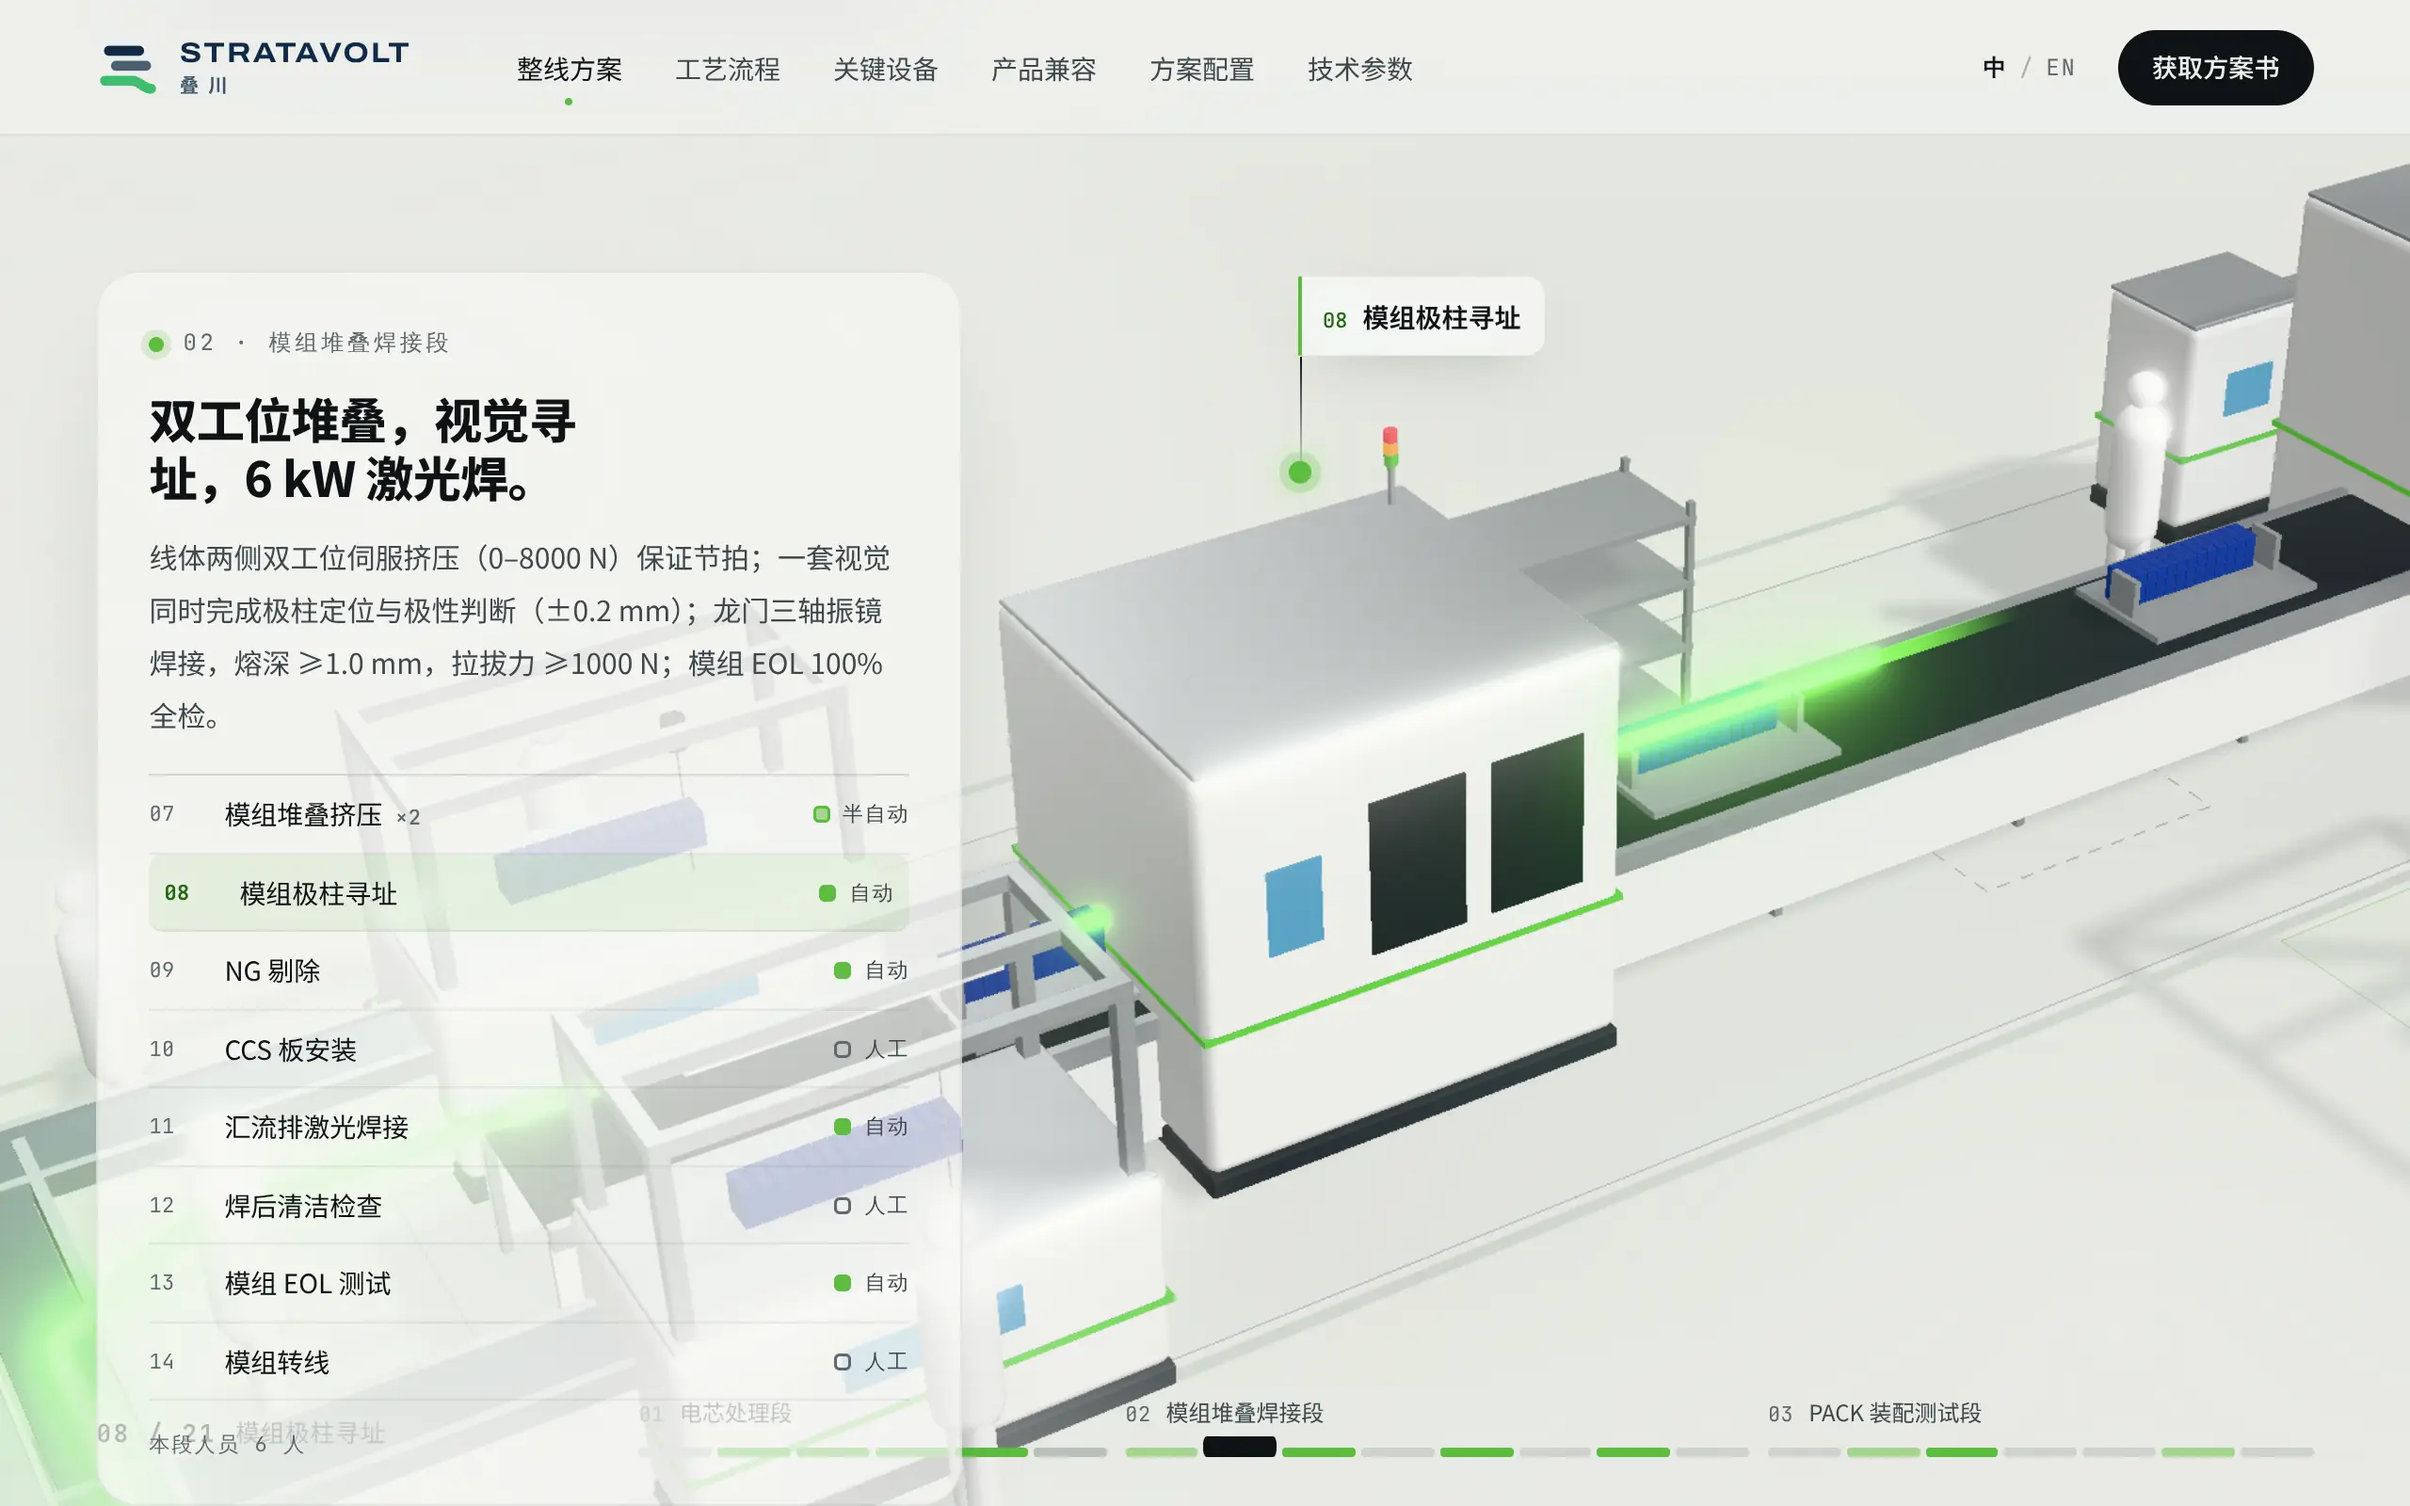
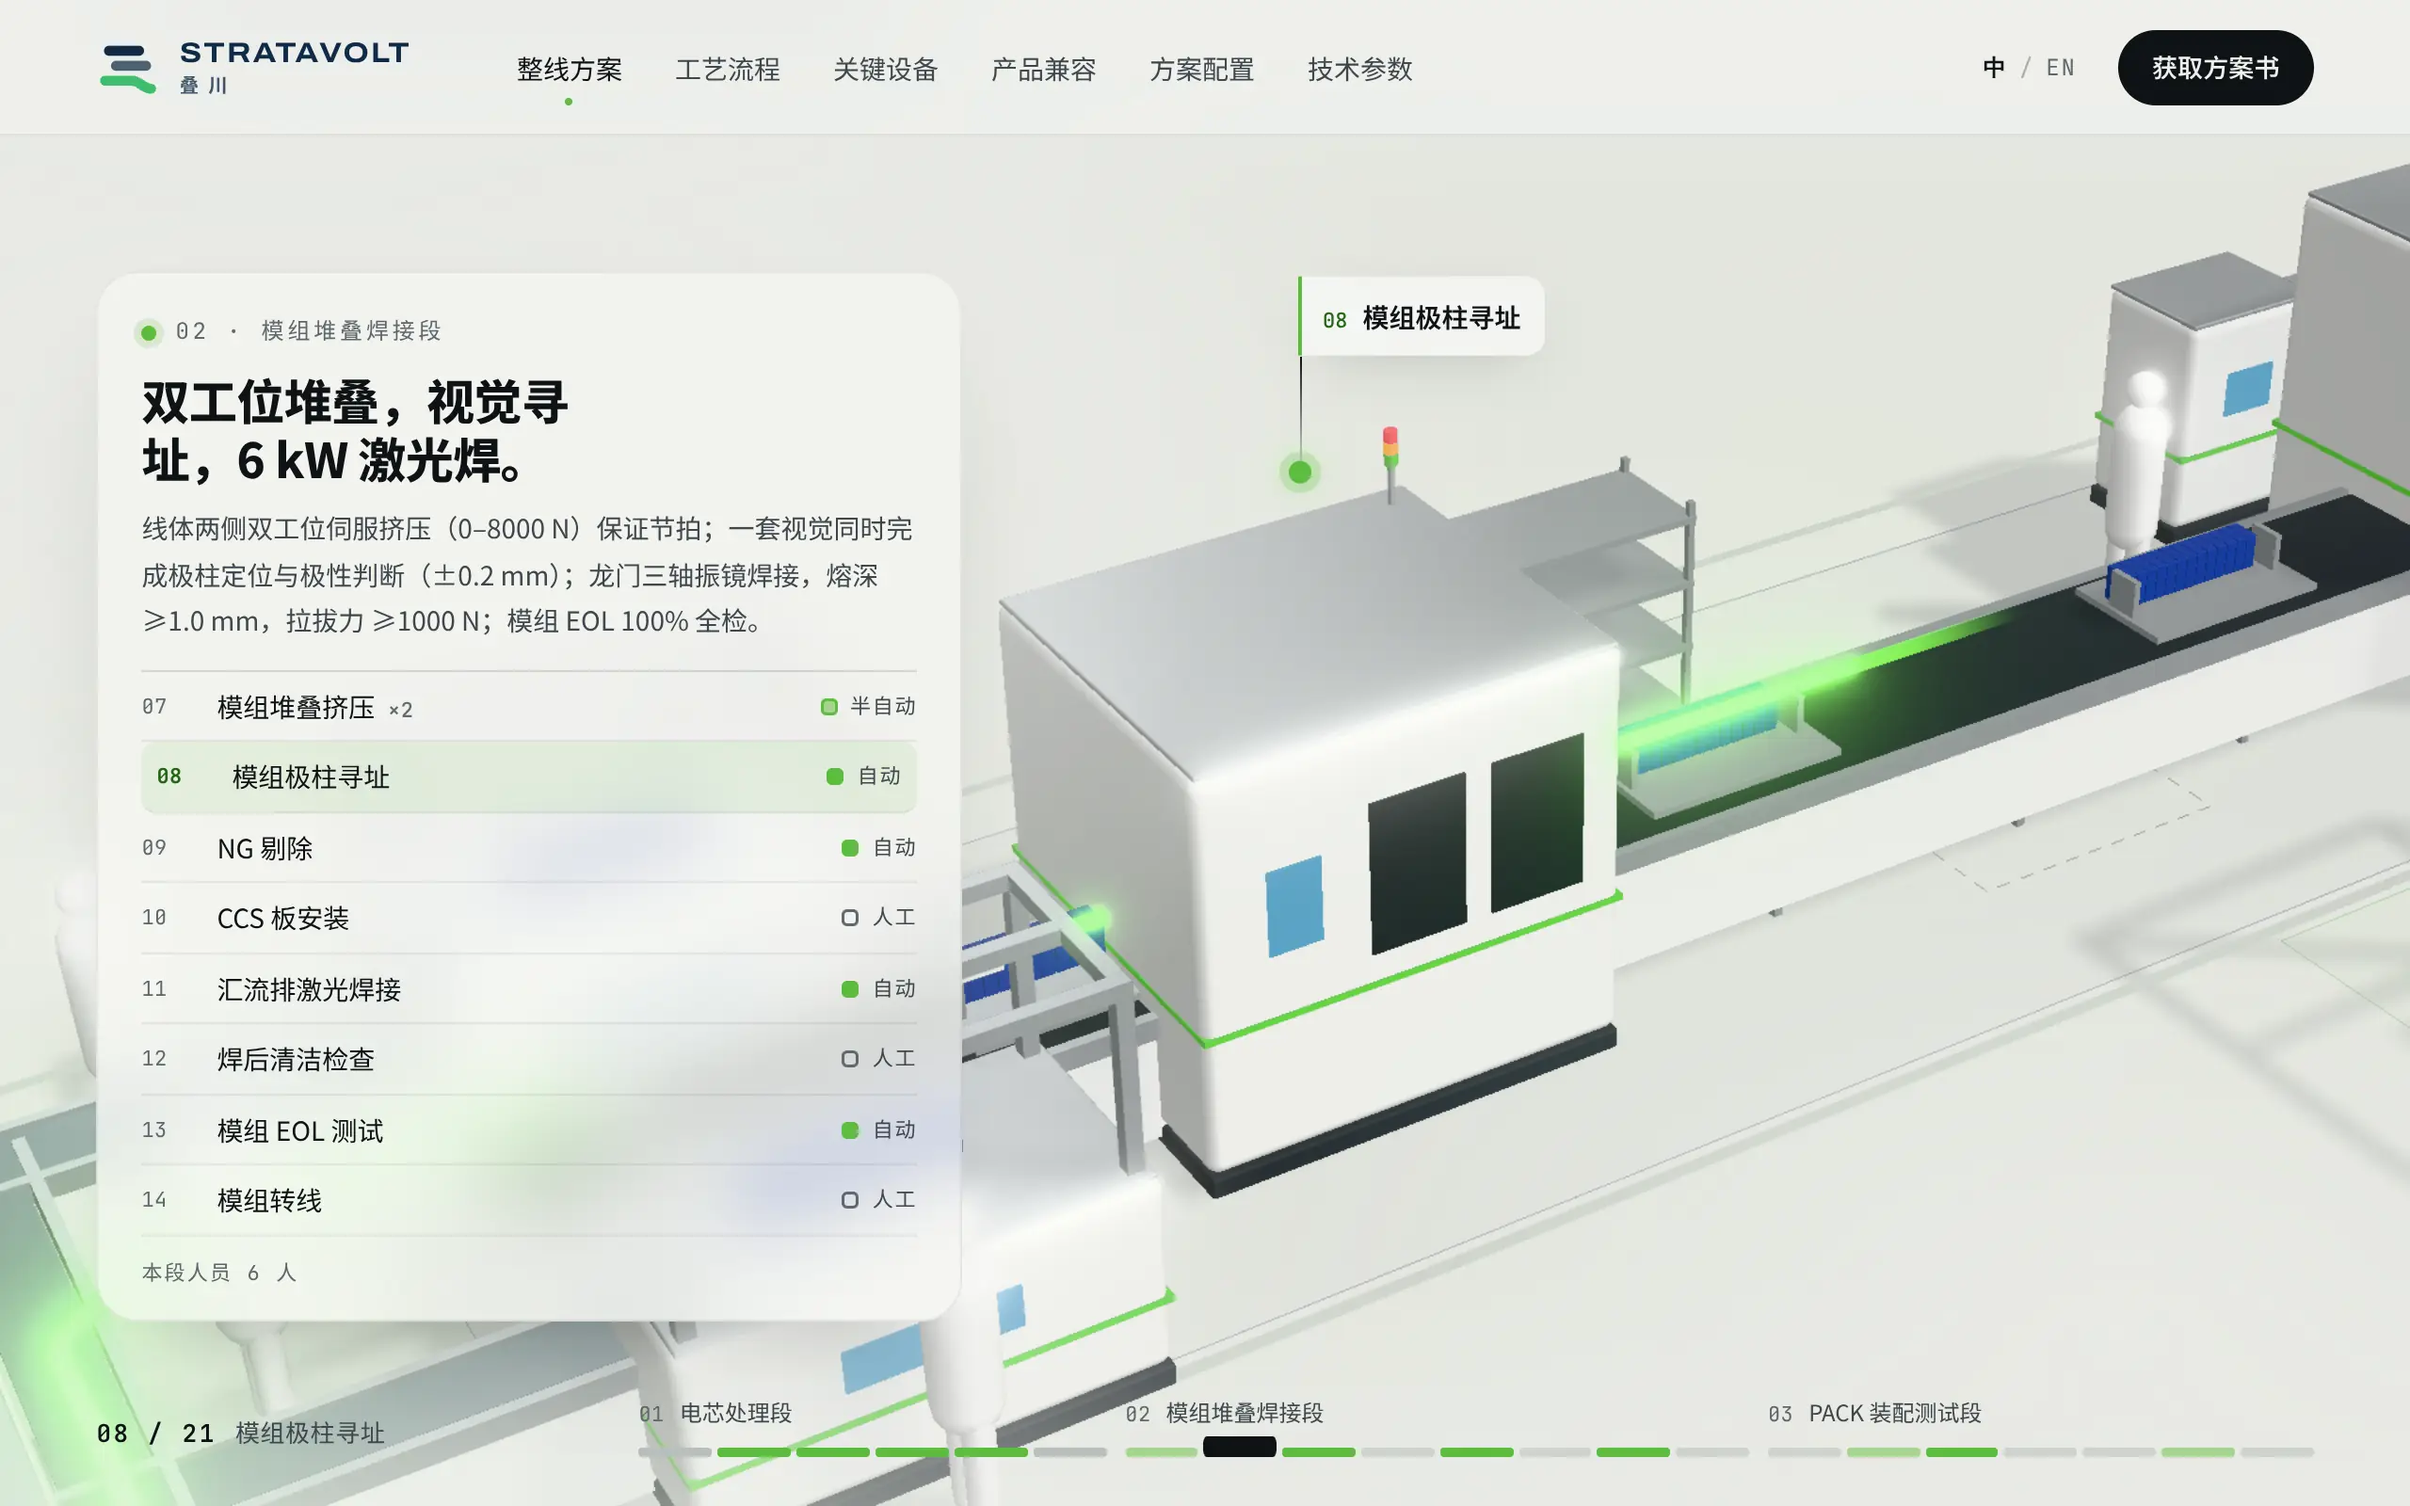
储能 PACK 线：重拍两张截图，订正 ts 行数
- twin：原图导航栏底下透出正文（站点的毛玻璃在 Chrome 里被 CSS 压缩器吃掉了，
  已在 ctne 修好），参数格子也补上了样式；重拍
- journey：旅程卡片在 1280×800 下压到了底部进度条（已在 ctne 修好）；重拍
- code/index.json：ctne 的 ts 行数从干净的 clone 重数，1023 → 881（总行数不变，
  总数按 wc -l 算，这里只是语言分布）

Claude-Session: https://claude.ai/code/session_01GS8xWpe5xMJAoNFPcvEQSU

diff --git a/index.html b/index.html
@@ -115,8 +115,8 @@
         "/shots/ctne/equipment.webp": "6ed4c984",
         "/shots/ctne/film.webp": "e3b2fc55",
         "/shots/ctne/hero.webp": "095d6c69",
-        "/shots/ctne/journey.webp": "4bd22b3c",
-        "/shots/ctne/twin.webp": "baf2836a",
+        "/shots/ctne/journey.webp": "a4d4d3da",
+        "/shots/ctne/twin.webp": "67d28260",
         "/shots/ems/agents.webp": "d1a56510",
         "/shots/ems/analytics.webp": "3732cc99",
         "/shots/ems/dashboard.webp": "94474d0c",
@@ -153,7 +153,7 @@
         "/code/ctne.json": "48ea0842",
         "/code/ems.json": "b01f5fb1",
         "/code/ftms.json": "0622a55b",
-        "/code/index.json": "e49236b8",
+        "/code/index.json": "a523d36c",
         "/code/ip-display.json": "7028003b",
         "/code/ip-geo.json": "755495d3",
         "/code/jobornot.json": "2f81d149",
